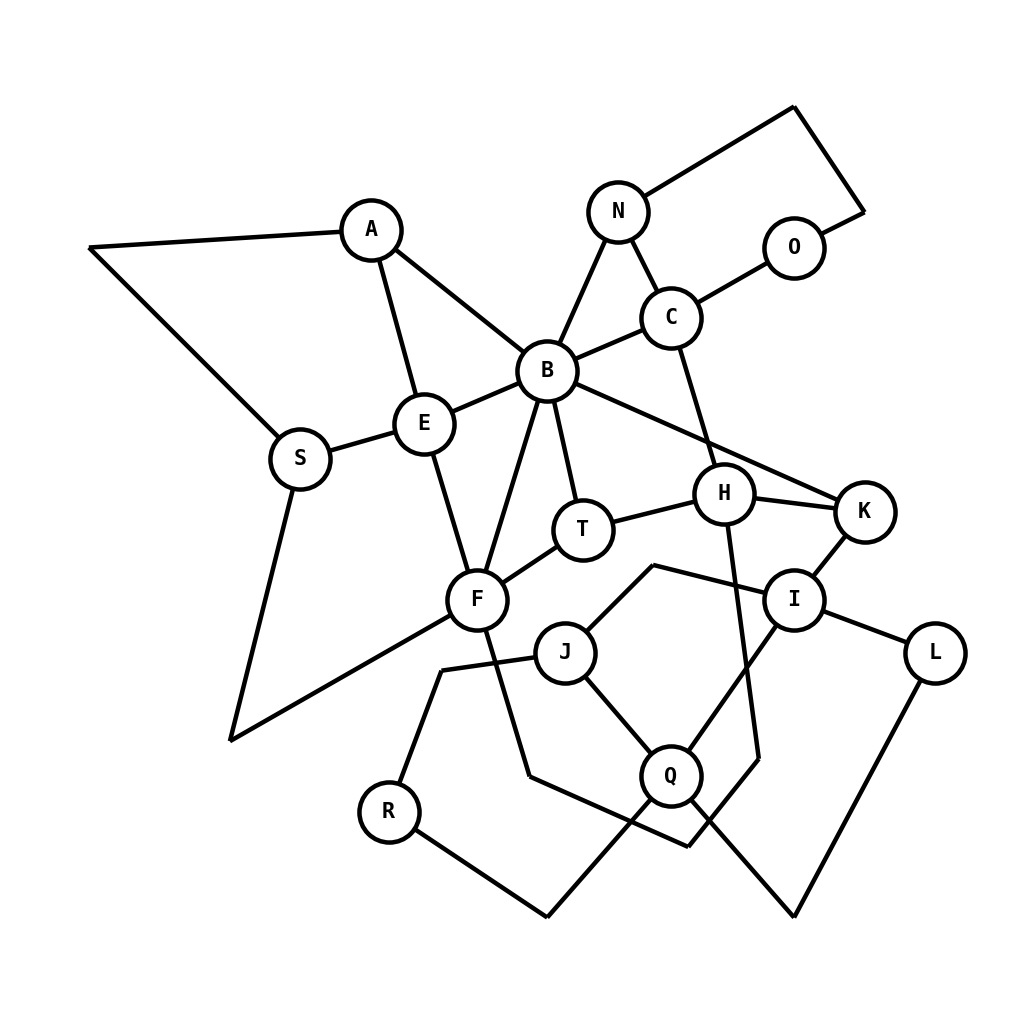
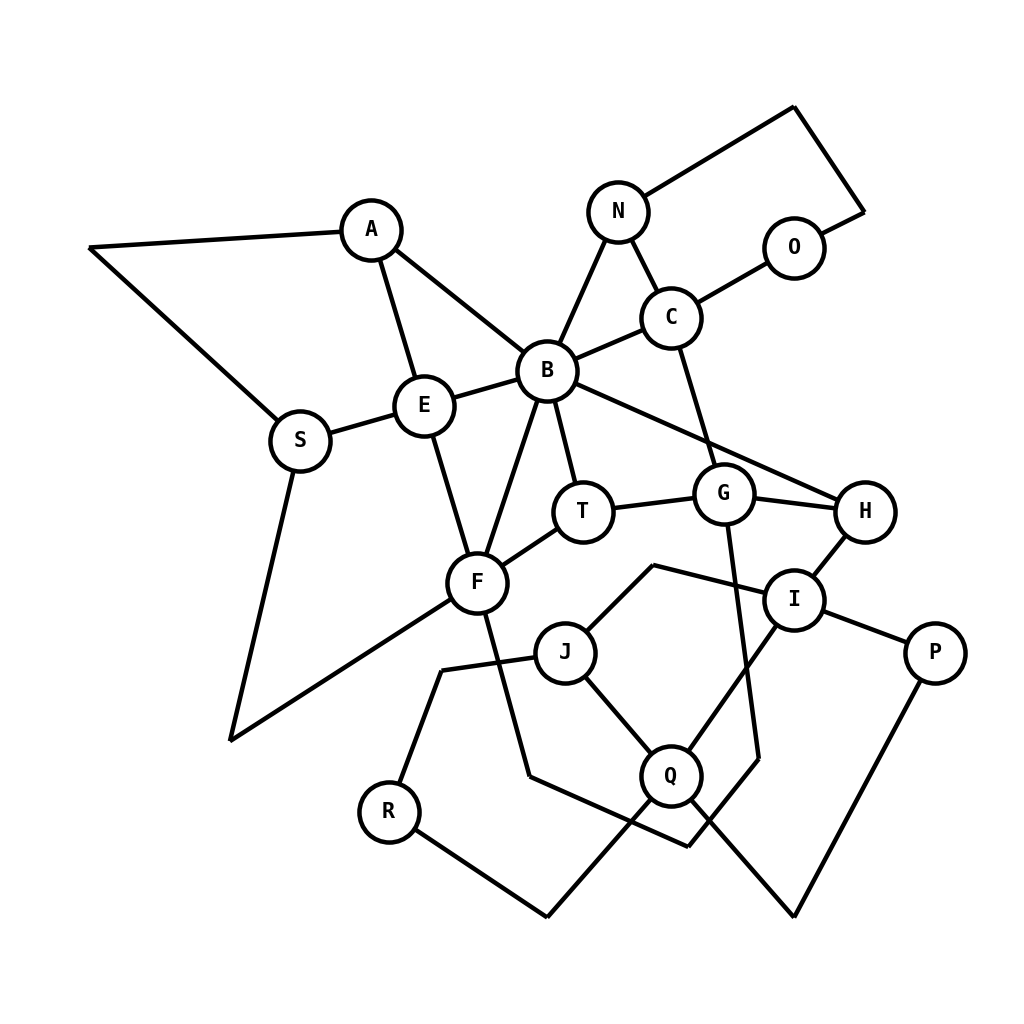
correct labels of m+ graph

diff --git a/purchase_dataset_recreation/PurchaseMPlus.py b/purchase_dataset_recreation/PurchaseMPlus.py
@@ -20,11 +20,11 @@ MPlus.add_node("C", pos=(9.25, 9.0))
 MPlus.add_node("Q", pos=(9.25, 2.5))
 
 MPlus.add_node("O", pos=(11.0, 10.0))
-MPlus.add_node("H", pos=(10.0, 6.5))
+MPlus.add_node("G", pos=(10.0, 6.5))
 
-MPlus.add_node("K", pos=(12.0, 6.25))
+MPlus.add_node("H", pos=(12.0, 6.25))
 MPlus.add_node("I", pos=(11.0, 5.0))
-MPlus.add_node("L", pos=(13.0, 4.25))
+MPlus.add_node("P", pos=(13.0, 4.25))
 
 
 MPlus.add_edge("S", "E")
@@ -38,23 +38,23 @@ MPlus.add_edge("B", "T")
 MPlus.add_edge("B", "E")
 MPlus.add_edge("B", "N")
 MPlus.add_edge("B", "C")
-MPlus.add_edge("B", "K")
+MPlus.add_edge("B", "H")
 
 MPlus.add_edge("C", "O")
-MPlus.add_edge("C", "H")
+MPlus.add_edge("C", "G")
 MPlus.add_edge("C", "N")
 MPlus.add_edge_via("N", "O", [(11.0, 12.0), (12.0, 10.5)])
 
 MPlus.add_edge("E", "F")
 MPlus.add_edge("F", "B")
 MPlus.add_edge("F", "T")
-MPlus.add_edge_via("F", "H", [(7.25, 2.5), (9.5, 1.5), (10.5, 2.75)])
+MPlus.add_edge_via("F", "G", [(7.25, 2.5), (9.5, 1.5), (10.5, 2.75)])
 
-MPlus.add_edge("T", "H")
-MPlus.add_edge("H", "K")
-MPlus.add_edge("K", "I")
+MPlus.add_edge("T", "G")
+MPlus.add_edge("G", "H")
+MPlus.add_edge("H", "I")
 
-MPlus.add_edge("I", "L")
+MPlus.add_edge("I", "P")
 MPlus.add_edge("I", "Q")
 
 MPlus.add_edge("J", "Q")
@@ -62,7 +62,7 @@ MPlus.add_edge_via("J", "R", [(6.0, 4.0)])
 MPlus.add_edge_via("J", "I", [(9.0, 5.5)])
 
 MPlus.add_edge_via("R", "Q", [(7.5, 0.5)])
-MPlus.add_edge_via("Q", "L", [(11.0, 0.5)])
+MPlus.add_edge_via("Q", "P", [(11.0, 0.5)])
 
 
 if __name__ == "__main__":
